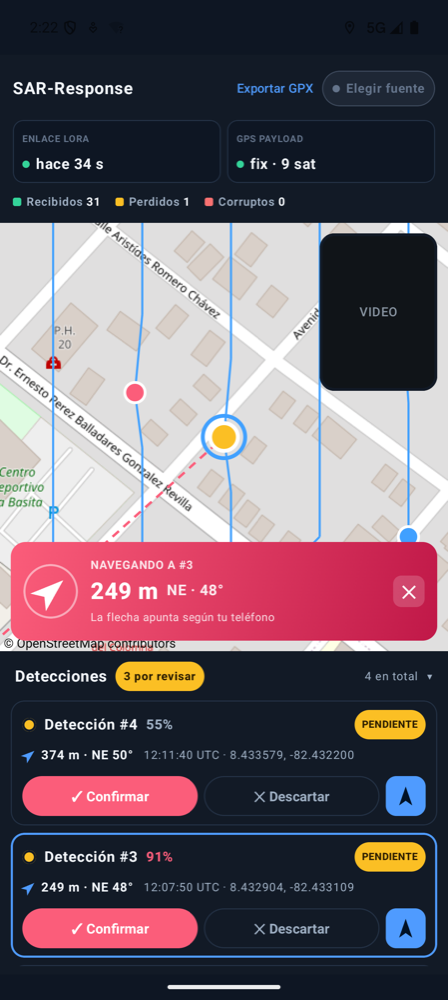
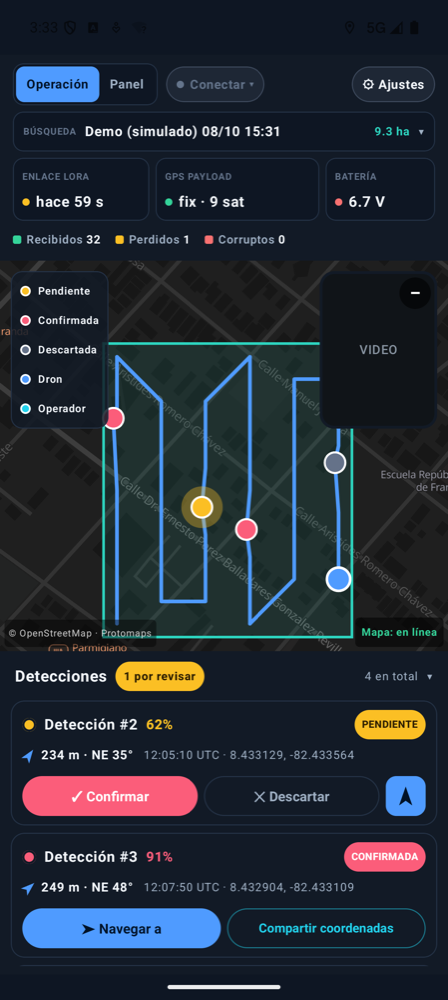
Capturas nuevas del README y arreglos visuales
- Capturas de Operación y Panel con la app actual (la del video se reemplaza
  cuando haya una con el receptor real).
- Los textos que empiezan con espacio (" · 50 m alt.", " · sin área"…) perdían
  el espacio: Android lo recorta; ahora se conserva.
- Mapa en miniatura sin indicador en línea/offline y con atribución corta.

diff --git a/app/src/main/java/io/github/daiyukichi/sarresponse/ui/MapPane.kt b/app/src/main/java/io/github/daiyukichi/sarresponse/ui/MapPane.kt
@@ -88,6 +88,8 @@ fun MapPane(
     onMapTap: (GeoPoint) -> Unit = {},
     /** Zona visible (oeste, sur, este, norte) cada vez que el mapa se detiene. */
     onVisibleBounds: (DoubleArray) -> Unit = {},
+    /** Mapa en miniatura: sin indicador en línea/offline y con la atribución corta. */
+    compact: Boolean = false,
 ) {
     val context = LocalContext.current
     var hasBaseMap by remember { mutableStateOf(true) }
@@ -160,7 +162,7 @@ fun MapPane(
 
     Box(modifier.clipToBounds()) {
         AndroidView(factory = { holder.map }, update = { holder.render(state, selectedAlertId, operator, navTargetId, pulse, area, draft) })
-        Text(
+        if (!compact) Text(
             stringResource(if (usingOnline) R.string.map_online else R.string.map_offline),
             color = if (usingOnline) Color(0xFF34D399) else Color(0xFFFBBF24), fontSize = 10.sp, fontWeight = FontWeight.Bold,
             modifier = Modifier
@@ -171,8 +173,8 @@ fun MapPane(
                 .padding(horizontal = 6.dp, vertical = 2.dp),
         )
         Text(
-            "© OpenStreetMap · Protomaps",
-            color = Color.White.copy(alpha = 0.75f), fontSize = 9.sp,
+            if (compact) "© OpenStreetMap" else "© OpenStreetMap · Protomaps",
+            color = Color.White.copy(alpha = 0.75f), fontSize = if (compact) 7.sp else 9.sp, maxLines = 1,
             modifier = Modifier
                 .align(Alignment.BottomStart)
                 .padding(4.dp)

diff --git a/app/src/main/java/io/github/daiyukichi/sarresponse/ui/Dashboard.kt b/app/src/main/java/io/github/daiyukichi/sarresponse/ui/Dashboard.kt
@@ -200,6 +200,7 @@ fun DashboardScreen(
                         onlineEnabled = onlineMapEnabled,
                         onAlertClick = { selectedAlertId = it },
                         modifier = if (mapIsMain) main else pip,
+                        compact = !mapIsMain,
                         area = area,
                         draft = draft,
                         onMapTap = onMapTap,

diff --git a/README.md b/README.md
@@ -20,9 +20,9 @@ dron, dónde se detectó a alguien, mirar el video, decidir** si la detección e
 **guiar a quien va a pie** hasta esa persona.
 
 <p align="center">
-  <img src="docs/img/mapa.png" width="300" alt="Mapa con recorrido del dron, detecciones y navegación hacia la detección #3">
+  <img src="docs/img/mapa.png" width="300" alt="Operación: área de búsqueda, recorrido del dron, detecciones pendientes, confirmadas y descartadas">
   &nbsp;&nbsp;
-  <img src="docs/img/video.png" width="300" alt="Vista de video con el mapa en miniatura">
+  <img src="docs/img/panel.png" width="300" alt="Panel: cobertura del área, tiempo de misión, batería del payload y aviso de batería baja">
 </p>
 
 <p align="center"><sub>Capturas con la misión simulada (modo demo). Datos del mapa © colaboradores de OpenStreetMap.</sub></p>
